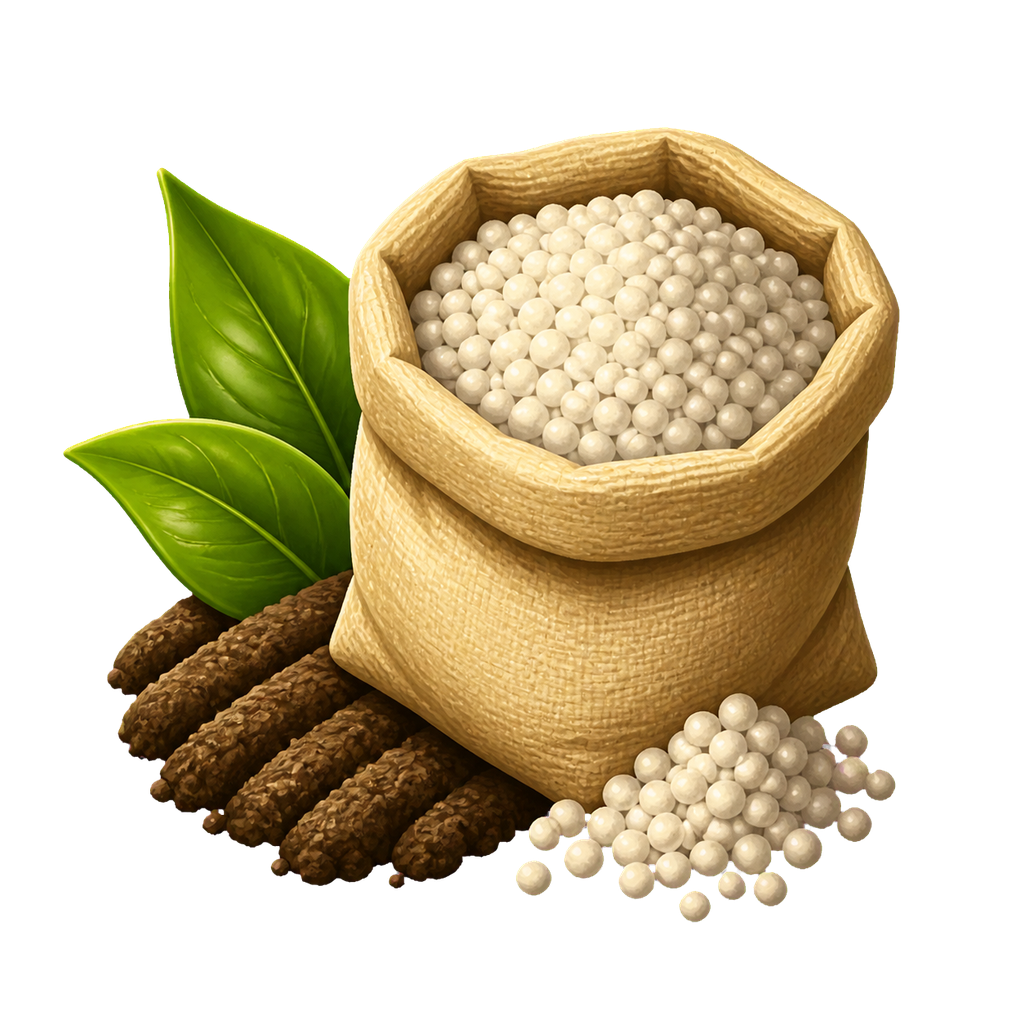
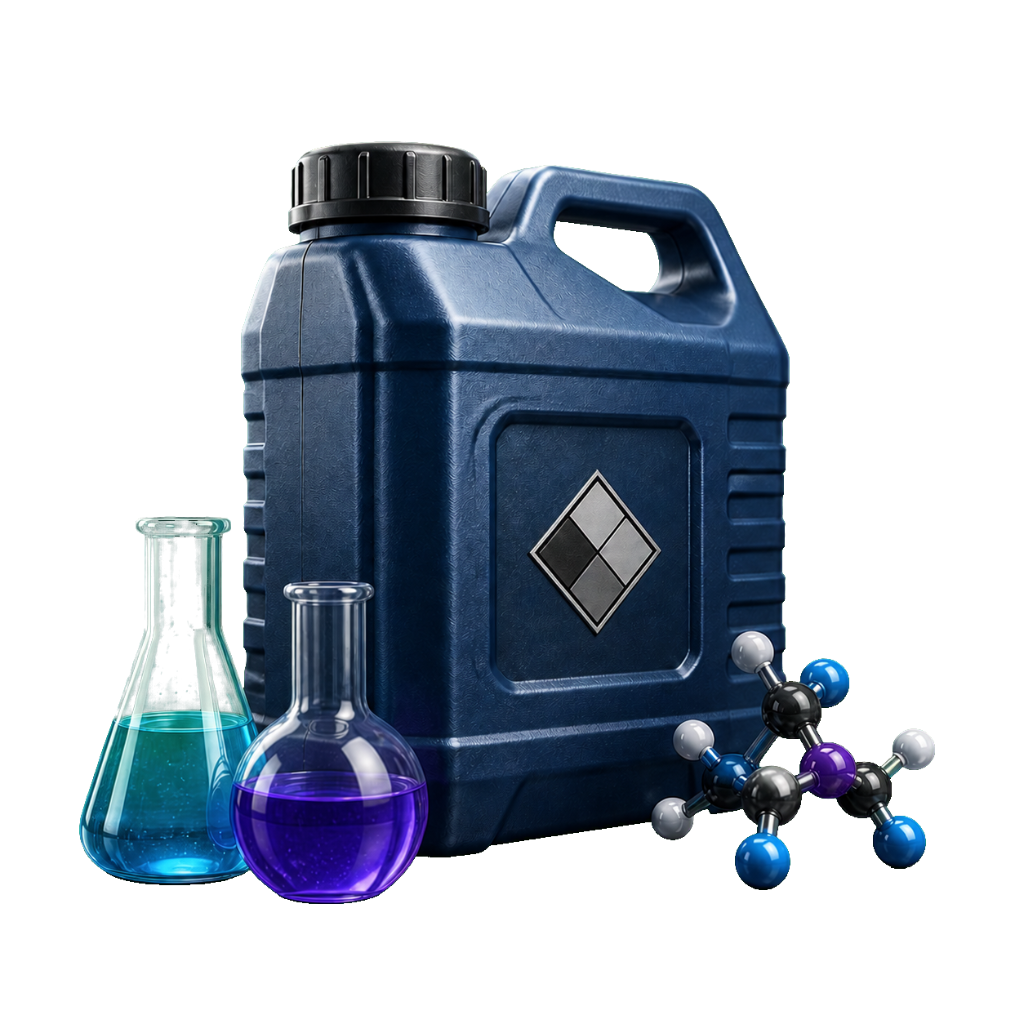
重绘燃料与化学品透明商品插画 (#711)
## 最终行为

- 工业燃料使用红色钢制燃料桶和易燃标志，并同步紧凑危险色图标。
- 工业化学品使用密封化学品桶、实验器皿和分子结构，与化肥保持明确区分。
- 两张商品插画使用真实透明背景，并验证透明四角、可见主体、互异性和无明显绿色色键残边。
- 运行时继续使用预乘 Alpha 生成的 128px 商品缩略图。

## 验证

- 分域 checks 通过。
- TypeScript 类型检查通过。
- Vite 生产构建通过。
- Playwright 分域浏览器回归 34/34 通过。

diff --git a/src/components/icons/ProductIcons.tsx b/src/components/icons/ProductIcons.tsx
@@ -21,6 +21,8 @@ export const PRODUCT_ICON_IDS = [
   'steel',
   'copper',
   'plastic',
+  'industrial-fuel',
+  'industrial-chemicals',
   'fertilizer',
   'feed',
   'veterinary-medicine',
@@ -237,6 +239,24 @@ export function ProductIcon({ productId, ...props }: ProductIconProps) {
           <path d="M10 3v3l-2 2v10c0 1.7 1.3 3 3 3h2c1.7 0 3-1.3 3-3V8l-2-2V3" />
           <path d="M8 11h8" />
           <path d="M10.5 15.5h3" />
+        </ProductSvg>
+      );
+    case 'industrial-fuel':
+      return (
+        <ProductSvg productId={productId} {...props}>
+          <path d="M6 5h12v15H6Z" />
+          <path d="M6 8h12M6 17h12M8 3h8v2" />
+          <path d="m12 10 3 3-3 3-3-3Z" />
+          <path d="M12.1 11.5c.9 1 .9 1.6.2 2.1.1-.6-.2-.9-.6-1.3-.5.7-.4 1.3.3 1.7" />
+        </ProductSvg>
+      );
+    case 'industrial-chemicals':
+      return (
+        <ProductSvg productId={productId} {...props}>
+          <path d="M7 5h9l2 3v12H6V8Z" />
+          <path d="M9 5V3h5v2M8 9h8" />
+          <path d="M10 13h4M12 11v4" />
+          <path d="M18 14h2v6h-4v-2" />
         </ProductSvg>
       );
     case 'fertilizer':

diff --git a/src/styles/icon-system.css b/src/styles/icon-system.css
@@ -12,6 +12,10 @@
   height: 1.25rem;
 }
 
+.product-icon[data-product-icon='industrial-fuel'] {
+  color: var(--color-danger);
+}
+
 .product-icon-label {
   min-width: 0;
   display: inline-flex;

diff --git a/docs/UI_DESIGN_SYSTEM.md b/docs/UI_DESIGN_SYSTEM.md
@@ -249,6 +249,8 @@ ECharts 不得把 `var(--color-*)` 原样交给 ZRender 的颜色运算。`Econo
 - `steel`：工字钢；
 - `copper`：铜材；
 - `plastic`：塑料瓶；
+- `industrial-fuel`：红色钢制燃料桶与易燃标志；
+- `industrial-chemicals`：密封工业化学品桶、实验器皿与分子结构；
 - `fertilizer`：化肥袋与颗粒；
 - `feed`：配合饲料袋与颗粒；
 - `veterinary-medicine`：养殖药剂瓶；
@@ -714,9 +716,9 @@ Playwright 必须验证 `1684×931`、`1280×900`、`900×1000`、`390×844` 和
 - `prefers-reduced-motion` 下关闭 Toast、移动通知岛和移动底栏返回位移动画都必须关闭；颜色不得作为待处理严重程度、未读状态或操作结果的唯一表达。
 - 待处理派生必须容忍浏览器夹具、迁移中状态或分区尚未送达造成的局部字段缺失；缺失领域不得阻断登录后外壳，只能不生成对应提醒，不得伪造提醒。
 
-### 化肥与化肥厂视觉资产
+### 燃料、化学品、化肥与化肥厂视觉资产
 
-正式商品 `fertilizer` 和正式设施 `fertilizer-factory` 必须分别具有 1024×1024 RGBA 源图、运行时缩略图、共享 `ProductIcon`／`FacilityIcon` ID 与 CSS 映射。化肥主视觉使用敞口颗粒肥料袋、叶片和紧凑土壤垄沟语义；化肥厂当前批准构图以中央造粒塔、双侧储罐、输送管廊和装袋区为核心，并与以成组分馏塔为主体的炼油厂保持可辨识差异。目录外回退不得替代正式资产；化肥厂插画哈希必须进入现有工厂基线，化肥商品源图继续接受商品资源完整性验证。
+正式商品 `industrial-fuel`、`industrial-chemicals`、`fertilizer` 和正式设施 `fertilizer-factory` 必须分别具有 1024×1024 RGBA 源图、运行时缩略图、共享 `ProductIcon`／`FacilityIcon` ID 与 CSS 映射。工业燃料主视觉固定使用红色钢制燃料桶与清晰易燃标志，紧凑 SVG 同步使用红色危险语义；工业化学品主视觉使用密封蓝色工业化学品桶、实验器皿与分子结构，不得出现肥料袋、叶片、土壤或颗粒等农业语义，也不得与化肥复用同一源图。化肥主视觉继续使用敞口颗粒肥料袋、叶片和紧凑土壤垄沟语义；化肥厂当前批准构图以中央造粒塔、双侧储罐、输送管廊和装袋区为核心，并与以成组分馏塔为主体的炼油厂保持可辨识差异。目录外回退不得替代正式资产；化肥厂插画哈希必须进入现有工厂基线，三种商品源图继续接受商品资源完整性与互异性验证。
 
 正式商品 `feed`、`veterinary-medicine`、`tractor` 与正式设施 `feed-factory`、`veterinary-medicine-factory`、`tractor-factory` 必须分别具有同名 1024×1024 RGBA 源图、运行时缩略图、共享图标 ID 与 CSS 映射。配合饲料主视觉使用无文字饲料袋和颗粒，养殖药剂使用琥珀药剂瓶，拖拉机使用无品牌农业拖拉机；三座工厂分别以粮仓与制粒设备、洁净混合与灌装设备、拖拉机总装线为中央识别主体。三座工厂均从空白生成且哈希进入工厂基线，不得以旧图编辑、通用厂房或未知 ID 回退替代。
 
